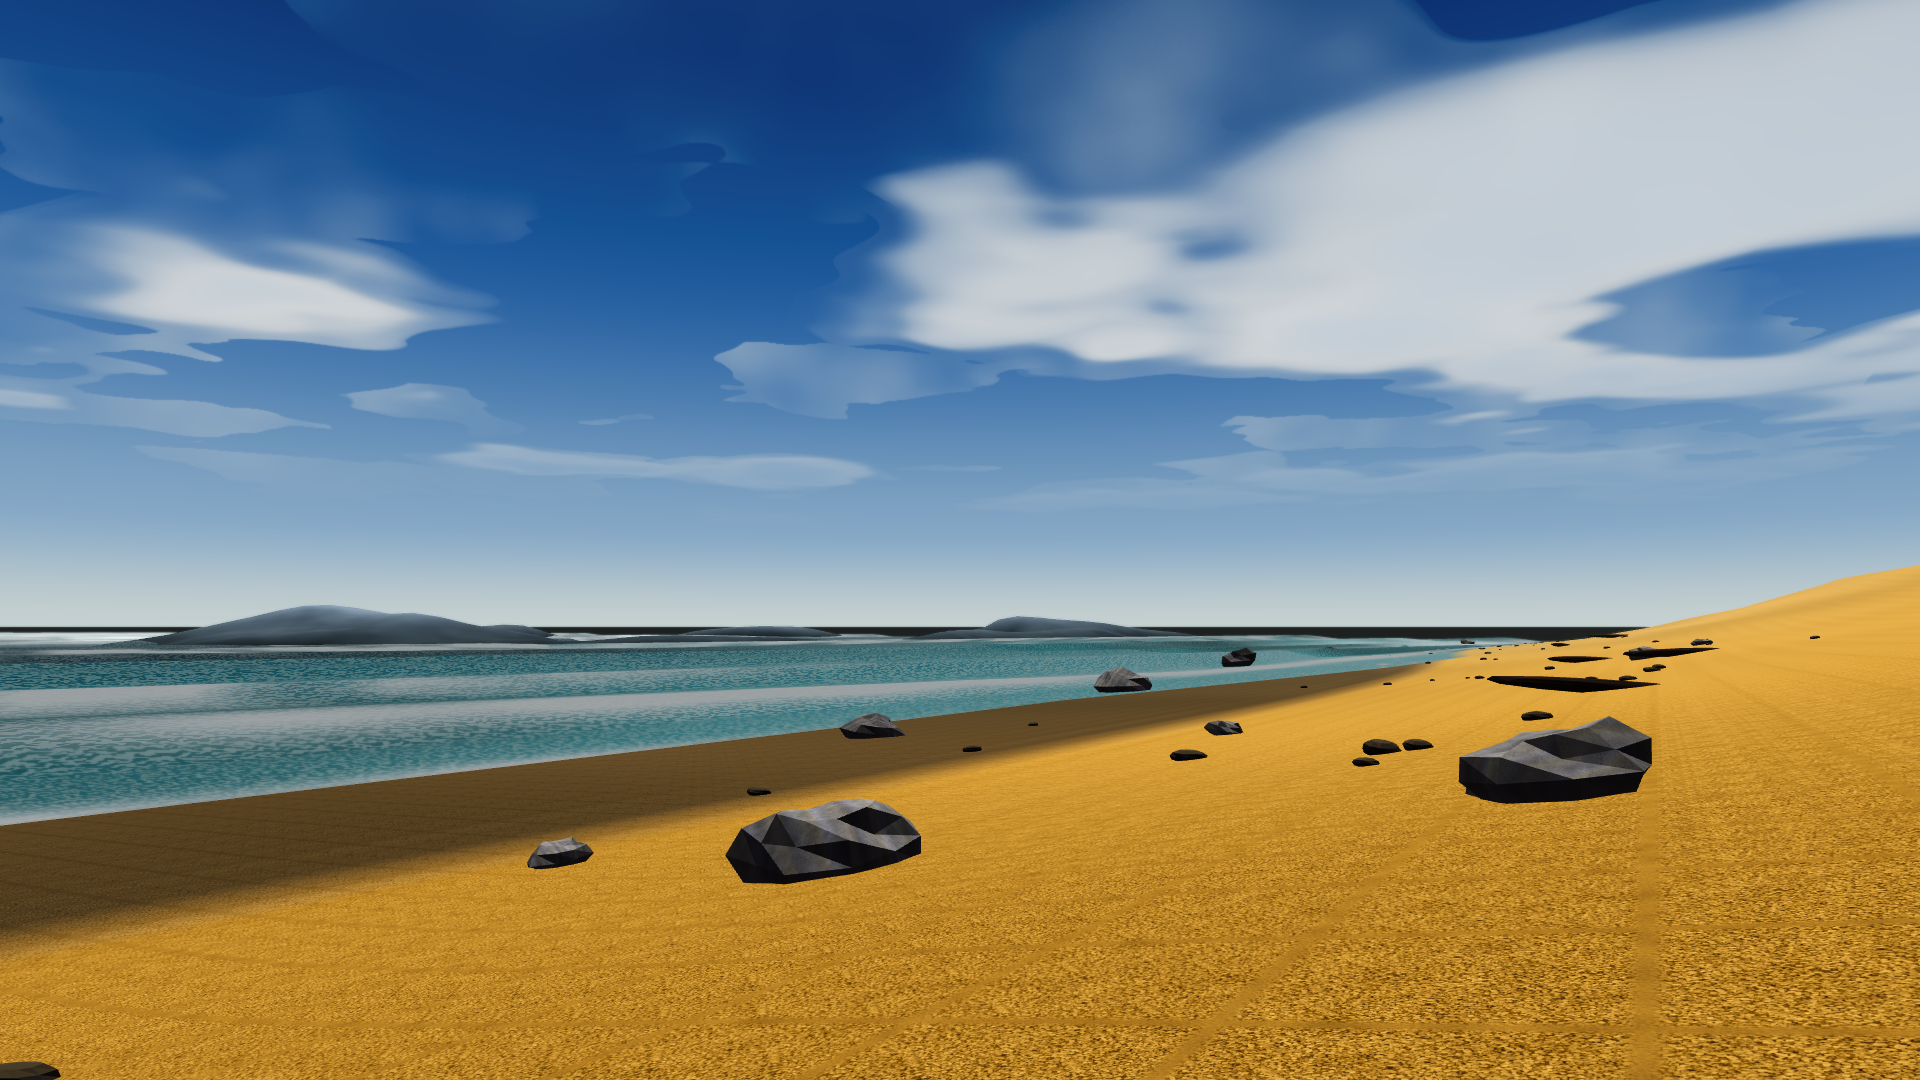
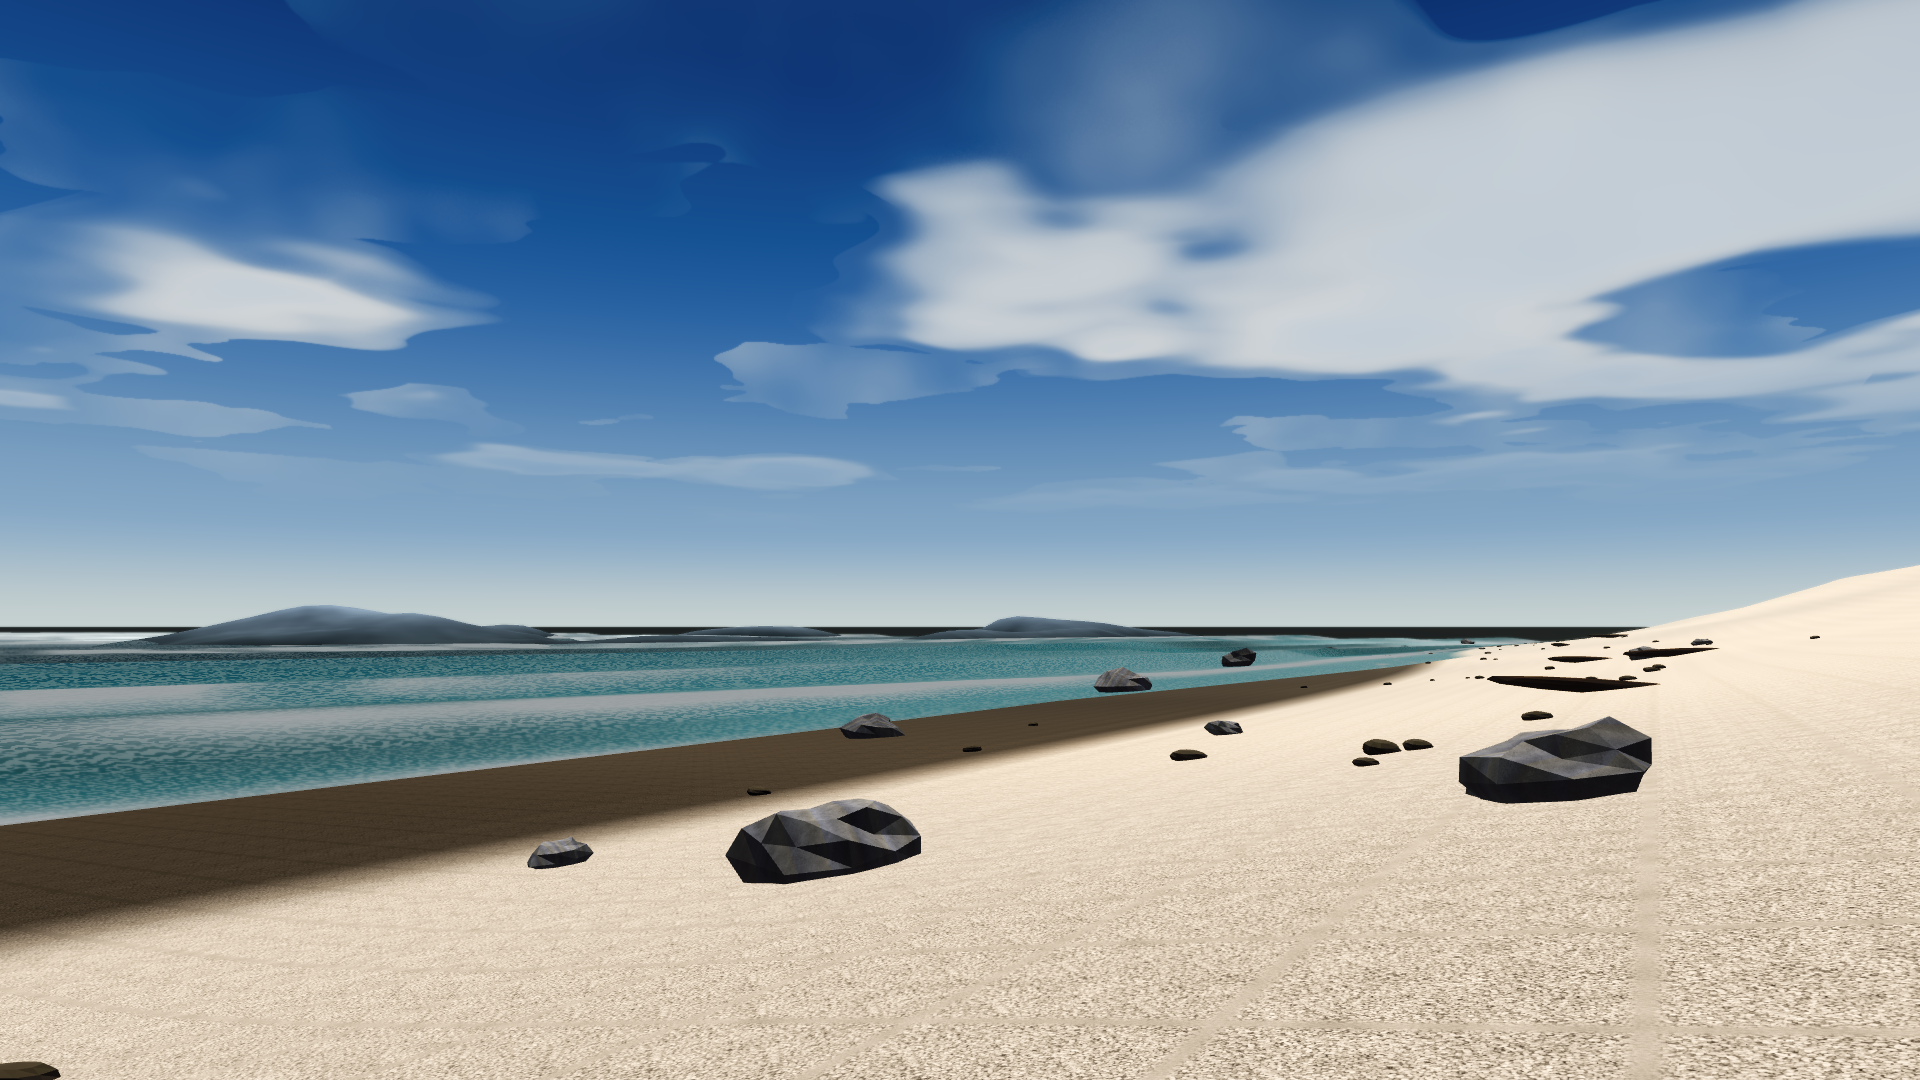
fix(R140): Ocean 沙滩从'沙漠黄'改回'浅米白'. ①数据: 参考沙 BGR(183,203,224) 饱和40.5; 我方(41,131,182) 饱和140.6 => 饱和度3.5倍/蓝色只有1/5 ②根因: _DryColor(0.36,0.285,0.18) 本身高饱和暖色 x 暖阳光 x 暖沙贴图 三重叠加(与棕榈叶同一类病) ③四档扫描: A档沙色最准但过曝10.71%, 采用 D 档(0.42,0.39,0.36) 沙BGR(179,199,215) 过曝0.00% ④Ocean 132.5/45.4/131.2 -> 151.2/57.1/84.2 (对比+11

diff --git a/Assets/Editor/R140Setup.cs b/Assets/Editor/R140Setup.cs
@@ -1,0 +1,81 @@
+// R140Setup.cs — R140 Ocean 沙滩偏橙（反照率饱和度过高）
+//
+// 实测（自动筛沙像素）：
+//   参考 f880  平均 BGR (183.5, 202.7, 223.9) 饱和 40.5   —— 浅米白
+//   我方 Ocean 平均 BGR ( 41.4, 130.6, 182.1) 饱和 140.6  —— 橙黄
+// 根因：Beach_Sand 的 _DryColor (0.360,0.285,0.180) 本身就是高饱和暖色，
+//       再乘暖阳光 + 暖贴图 ⇒ 三重叠加。
+// 90  中性档 A（0.55,0.51,0.47） / 90b B（0.66,0.61,0.56） / 90c C（0.75,0.70,0.64）
+// 90d 还原（0.36,0.285,0.18）
+#if UNITY_EDITOR
+using UnityEditor;
+using UnityEngine;
+
+namespace WaterProject.EditorTools
+{
+    internal static class R140Setup
+    {
+        static readonly string[] Mats =
+        {
+            "Assets/Art/Materials/Ocean_Sand.mat",
+            "Assets/Art/Materials/Sand_Shore.mat",
+            "Assets/Art/Materials/Sand_Wet.mat",
+            "Assets/Art/Materials/Sand_Damp.mat",
+        };
+
+        static void P(string s) => System.IO.File.AppendAllText(
+            System.IO.Path.Combine(Application.dataPath, "../Logs/water_probe.txt"), s);
+
+        static void Preset(string tag, Color dry, Color wet)
+        {
+            int n = 0;
+            foreach (var path in Mats)
+            {
+                var m = AssetDatabase.LoadAssetAtPath<Material>(path);
+                if (m == null) continue;
+                bool any = false;
+                if (m.HasProperty("_DryColor")) { m.SetColor("_DryColor", dry); any = true; }
+                if (m.HasProperty("_WetColor")) { m.SetColor("_WetColor", wet); any = true; }
+                if (!any) continue;
+                EditorUtility.SetDirty(m);
+                AssetDatabase.SaveAssetIfDirty(m);
+                n++;
+            }
+            P($"R140 {tag}: dry={dry} wet={wet} 写入 {n} 张\n");
+        }
+
+        [MenuItem("Tools/R140/90 沙滩=中性 A")]
+        public static void A() => Preset("90 A", new Color(0.55f, 0.51f, 0.47f, 1f), new Color(0.30f, 0.28f, 0.26f, 1f));
+
+        [MenuItem("Tools/R140/90b 沙滩=中性 B")]
+        public static void B() => Preset("90b B", new Color(0.66f, 0.61f, 0.56f, 1f), new Color(0.36f, 0.335f, 0.31f, 1f));
+
+        [MenuItem("Tools/R140/90c 沙滩=中性 C")]
+        public static void C() => Preset("90c C", new Color(0.75f, 0.70f, 0.64f, 1f), new Color(0.42f, 0.39f, 0.36f, 1f));
+
+        [MenuItem("Tools/R140/90d 沙滩=还原(旧橙)")]
+        public static void R() => Preset("90d 还原", new Color(0.360f, 0.285f, 0.180f, 1f), new Color(0.098f, 0.076f, 0.050f, 1f));
+
+        [MenuItem("Tools/R140/90e 沙滩=中性 D")]
+        public static void D() => Preset("90e D", new Color(0.42f, 0.39f, 0.36f, 1f), new Color(0.26f, 0.24f, 0.22f, 1f));
+
+        [MenuItem("Tools/R140/90f 沙滩=中性 E")]
+        public static void E() => Preset("90f E", new Color(0.48f, 0.45f, 0.42f, 1f), new Color(0.29f, 0.27f, 0.25f, 1f));
+
+        [MenuItem("Tools/R140/91 探针")]
+        public static void Probe()
+        {
+            var sb = new System.Text.StringBuilder("R140/91 沙滩材质\n");
+            foreach (var path in Mats)
+            {
+                var m = AssetDatabase.LoadAssetAtPath<Material>(path);
+                if (m == null) continue;
+                var d = m.HasProperty("_DryColor") ? m.GetColor("_DryColor") : Color.clear;
+                sb.Append($"  {System.IO.Path.GetFileName(path)}: dry=({d.r:F2},{d.g:F2},{d.b:F2})")
+                  .Append($" texAmt={(m.HasProperty("_SandTexAmount") ? m.GetFloat("_SandTexAmount") : -1):F2}\n");
+            }
+            P(sb.ToString());
+        }
+    }
+}
+#endif

diff --git a/Docs/学习路径与知识库/检测报告/R136_重审计.md b/Docs/学习路径与知识库/检测报告/R136_重审计.md
@@ -180,3 +180,44 @@ Islet：121.9/50.7/101.3 → **123.1/49.4/99.2**。
 > 我把"取条带用的高度"先按噪声揉了一下，条带就跟着石头起伏走，变成自然的岩层。
 
 > ⚠ 遗留：这块巨岩的**外形**（一圈圈鼓包）是网格本身，材质改不动；要彻底自然得换网格。
+
+---
+
+## 九、Ocean 沙滩偏橙（R140）—— 数值几乎逐位对上参考
+
+### 数据（自动筛"沙像素"后统计）
+
+| 来源 | 平均 BGR | 饱和 |
+| --- | --- | --- |
+| 参考 f880 | (183.5, 202.7, 223.9) | **40.5** |
+| 我方（改前） | (41.4, 130.6, 182.1) | **140.6** |
+
+⇒ 我们的沙**饱和度是参考的 3.5 倍**，而且蓝色通道只有参考的 1/5 —— 所以读成"沙漠黄"。
+
+### 根因
+`Beach_Sand` 的 `_DryColor (0.360, 0.285, 0.180)` 本身就是高饱和暖色，
+再乘**暖阳光**、再乘**暖色沙贴图** ⇒ 三重叠加。
+
+### 四档扫描
+
+| 档位 | 全画面亮度 | 爆白 | 沙 BGR |
+| --- | --- | --- | --- |
+| 旧（橙） | 132.5 | 0.00% | (41,134,188) |
+| A (0.55/0.51/0.47) | 163 | **10.71%** | (188,207,220) |
+| **D (0.42/0.39/0.36) 采用** | **151.2** | **0.00%** | **(179,199,215)** |
+| E (0.48/0.45/0.42) | 162 | 0.01% | (194,210,221) |
+
+> A 档的沙色最贴参考，但**过曝 10.7%**（沙面大片顶到 255）；D 档两者兼顾。
+
+### 结果
+Ocean：132.5/45.4/131.2 → **151.2/57.1/84.2**
+- **对比 +11.7**（原来画面发闷的主要原因之一就是沙把中间调全占了）
+- **饱和 131 → 84**（参考海面 90.6，现在反而更接近）
+
+### 人话版
+
+> Ocean 的沙滩是**沙漠黄**，不是海滩色。量出来饱和度是原片的 3.5 倍、蓝色只有 1/5。
+>
+> 原因和棕榈叶一模一样：**底色本身太暖，再乘暖阳光、再乘暖沙贴图**，三重叠加。
+> 把底色调成接近中性之后，沙滩变成自然的浅米白，画面**对比一下子提高了 12 点**——
+> 原来"发闷"很大程度就是这片橙色占满了画面中间调。
